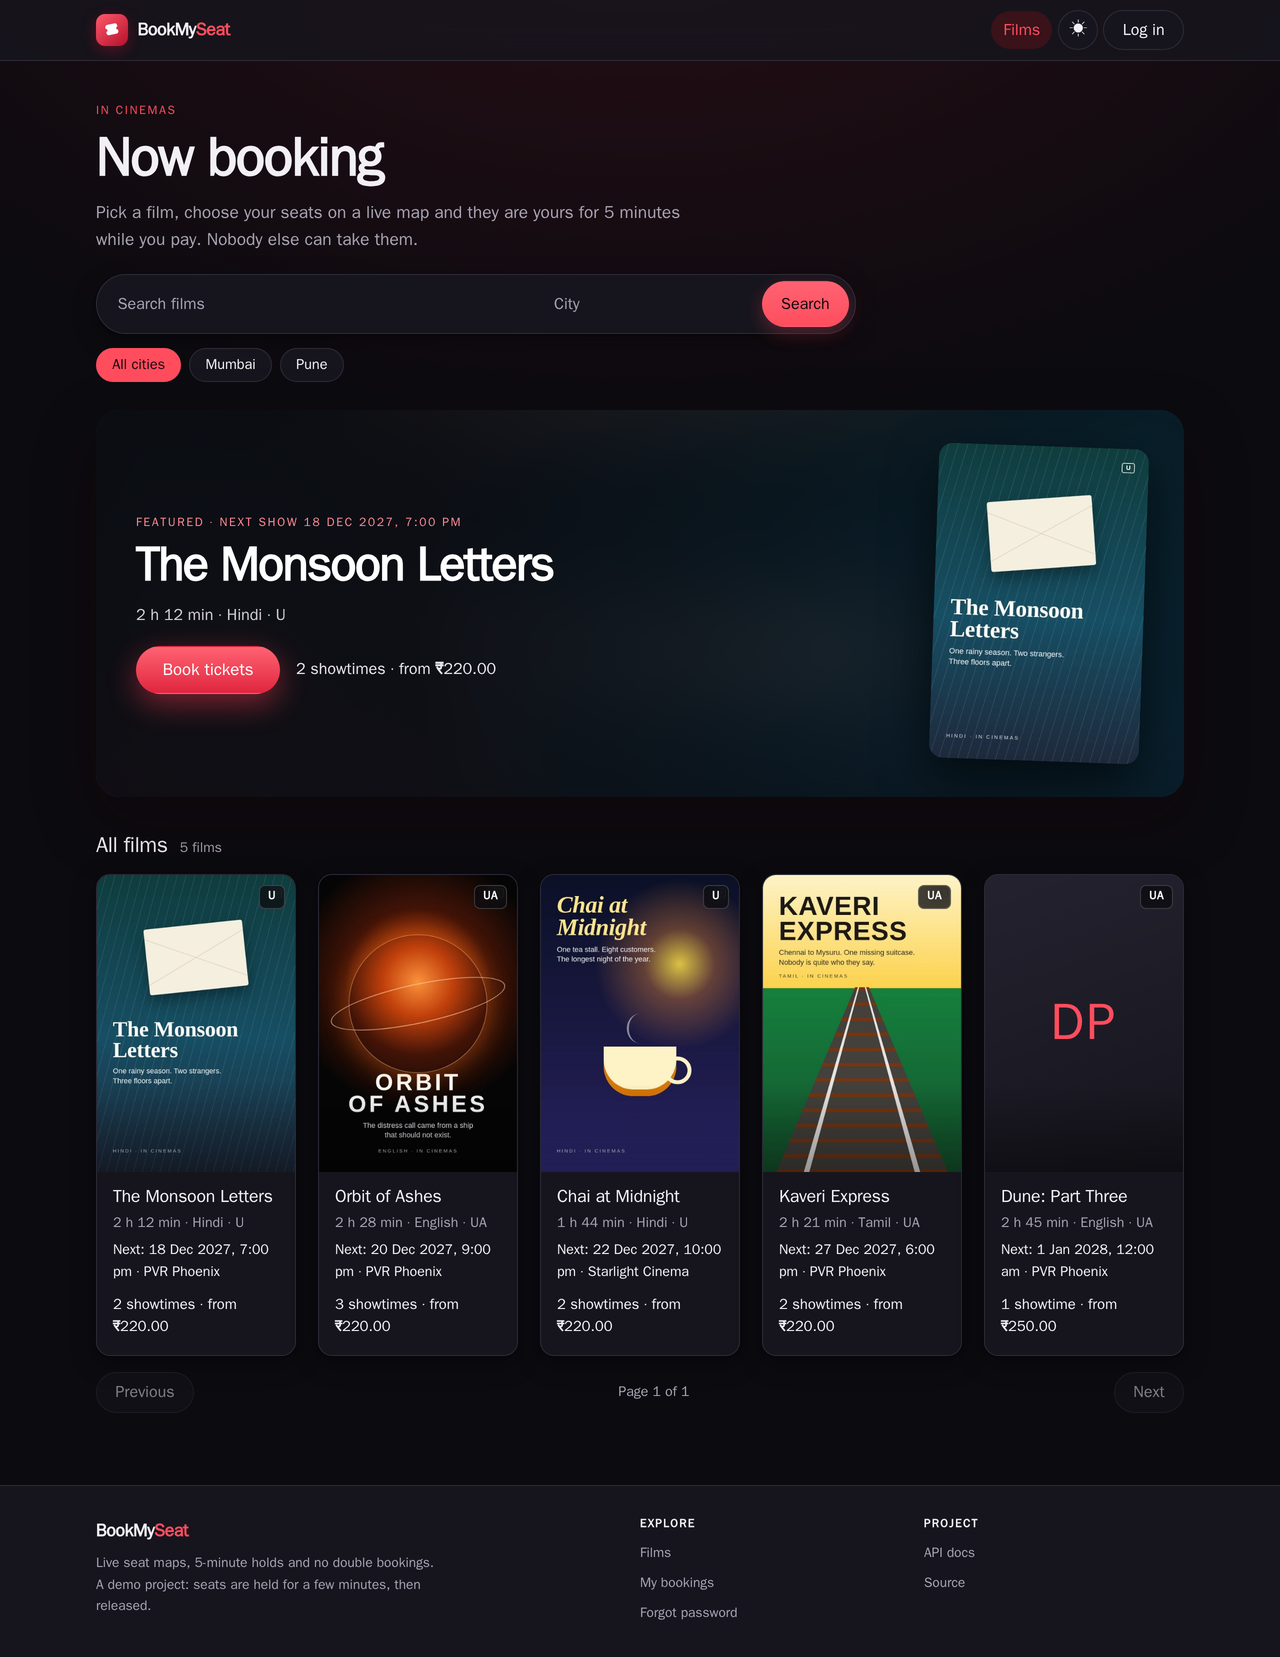
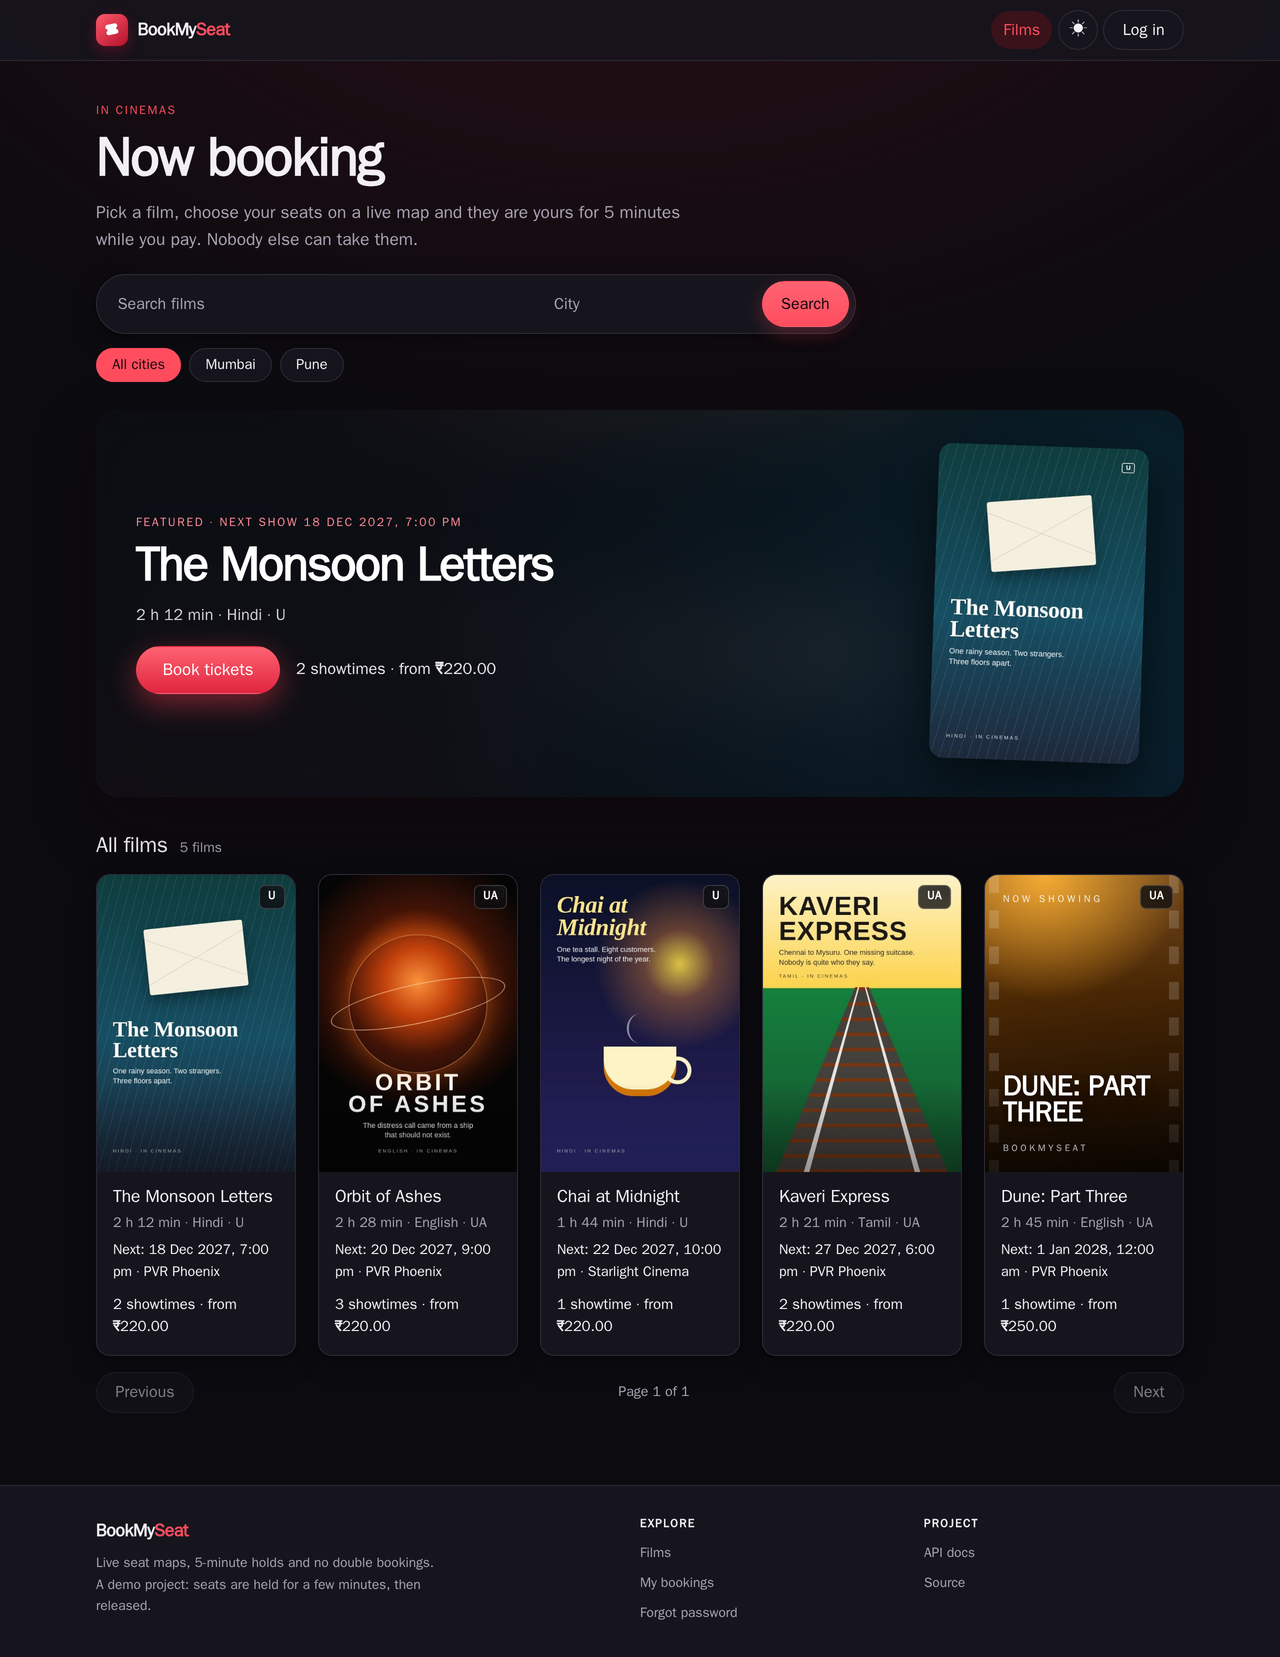
A cover for films without a poster: the title set like a poster on one of six dark gradients with film-strip edges (picked from the title, so a film keeps its colour), the initials where it is small; replaces the lone initials box (Dune on Home, and every film on the live site, where no posters are 

Changed region(s): [[0.75, 0.5232, 0.9375, 0.7079], [0.5, 0.7695, 0.5312, 0.8002]]

diff --git a/src/main/resources/static/assets/app.css b/src/main/resources/static/assets/app.css
@@ -240,16 +240,51 @@ input:focus-visible, .btn:focus-visible, .seat:focus-visible, a:focus-visible, .
 }
 .poster.cover { width: 100%; border-radius: 0; transition: transform .35s ease; }
 .film-card:hover .poster.cover { transform: scale(1.04); }
-.poster.cover.placeholder { font-size: 3.2rem; border: 0; }
 .poster { display: block; flex: none; aspect-ratio: 2 / 3; height: auto; object-fit: cover; border-radius: 8px; background: var(--seat-free); }
 .poster.thumb { width: 88px; }
 .poster.large { width: 200px; }
 .poster.small { width: 64px; }
-.poster.placeholder { display: grid; place-items: center; font-weight: 700; letter-spacing: .05em; color: var(--accent);
-	background: linear-gradient(160deg, var(--seat-free), var(--surface)); border: 1px solid var(--border); }
+/* No poster: a cover drawn from the title. Always dark with white type (in both themes), like a real poster */
+.poster.placeholder {
+	position: relative; overflow: hidden; display: grid; place-items: center; font-weight: 800; letter-spacing: .04em;
+	color: #fff; border: 0;
+	background: var(--ph-bg, radial-gradient(120% 70% at 50% 0%, #ff5a6b 0%, transparent 60%), linear-gradient(170deg, #5b0f1e, #14060a));
+}
+.poster.placeholder::before { /* film-strip holes down both sides */
+	content: ''; position: absolute; inset: 0;
+	background: repeating-linear-gradient(180deg, rgb(255 255 255 / .16) 0 6%, transparent 6% 12%) left 4px top 0 / 5% 100% no-repeat,
+		repeating-linear-gradient(180deg, rgb(255 255 255 / .16) 0 6%, transparent 6% 12%) right 4px top 0 / 5% 100% no-repeat;
+}
+.poster.placeholder::after { /* a soft light from the top, like a projector beam */
+	content: ''; position: absolute; inset: 0; background: linear-gradient(180deg, rgb(255 255 255 / .08), transparent 40%, rgb(0 0 0 / .35));
+}
+.ph-0 { --ph-bg: radial-gradient(120% 70% at 50% 0%, #ff5a6b 0%, transparent 60%), linear-gradient(170deg, #5b0f1e, #14060a); }
+.ph-1 { --ph-bg: radial-gradient(120% 70% at 30% 0%, #f5a524 0%, transparent 60%), linear-gradient(170deg, #6b3a06, #1a0d02); }
+.ph-2 { --ph-bg: radial-gradient(120% 70% at 70% 0%, #38bdf8 0%, transparent 60%), linear-gradient(170deg, #0c3b5e, #050d1a); }
+.ph-3 { --ph-bg: radial-gradient(120% 70% at 50% 0%, #a78bfa 0%, transparent 60%), linear-gradient(170deg, #3b1d72, #0d0619); }
+.ph-4 { --ph-bg: radial-gradient(120% 70% at 40% 0%, #34d399 0%, transparent 60%), linear-gradient(170deg, #0b4d3b, #03140f); }
+.ph-5 { --ph-bg: radial-gradient(120% 70% at 60% 0%, #f472b6 0%, transparent 60%), linear-gradient(170deg, #64103f, #170410); }
 .poster.thumb.placeholder { font-size: 1.4rem; }
-.poster.large.placeholder { font-size: 3rem; }
 .poster.small.placeholder { font-size: 1rem; }
+/* The large ones read like a poster: a label at the top, the title big at the bottom */
+.poster.cover.placeholder, .poster.large.placeholder {
+	display: flex; flex-direction: column; justify-content: flex-end; align-items: flex-start; place-items: initial;
+	padding: 18px 18px 16px; text-align: left;
+}
+.ph-tag, .ph-title, .ph-foot { position: relative; z-index: 1; }
+.ph-tag { position: absolute; top: 16px; left: 18px; font-size: .62rem; font-weight: 700; letter-spacing: .3em; text-transform: uppercase; opacity: .85; }
+.ph-title {
+	font-family: "Segoe UI Variable Display", "Segoe UI", system-ui, sans-serif; font-weight: 850; text-transform: uppercase;
+	letter-spacing: -.01em; line-height: .95; font-size: 1.75rem; overflow-wrap: anywhere; text-shadow: 0 4px 18px rgb(0 0 0 / .5);
+	display: -webkit-box; -webkit-box-orient: vertical; -webkit-line-clamp: 4; line-clamp: 4; overflow: hidden; /* a long title stops at 4 lines */
+}
+@media (max-width: 560px) {
+	.ph-title, .poster.large .ph-title { font-size: 1.25rem; }
+	.poster.cover.placeholder, .poster.large.placeholder { padding: 14px 14px 12px; }
+	.ph-tag { top: 12px; left: 14px; font-size: .52rem; }
+}
+.poster.large .ph-title { font-size: 1.9rem; }
+.ph-foot { margin-top: .9rem; font-size: .58rem; font-weight: 700; letter-spacing: .3em; text-transform: uppercase; opacity: .7; }
 .poster-box { margin-top: 12px; }
 .follow-row { margin-top: 12px; }
 .follow-btn::before { content: '🔔 ' / ''; } /* empty alt text: the icons are not part of the button's name */

diff --git a/src/main/resources/static/assets/app.js b/src/main/resources/static/assets/app.js
@@ -48,15 +48,24 @@ function filmFacts(film) {
 }
 
 /**
- * A film's poster, or a placeholder with its initials. Decorative (alt=""): the title is always next to it.
- * width/height reserve its place, so the page doesn't jump as posters load.
+ * A film's poster, or, without one, a cover drawn from its title: the title set like a poster on one of six
+ * cinematic gradients (picked from the title, so a film always gets the same one), or its initials when small.
+ * Decorative (alt="", aria-hidden): the title is always next to it. width/height reserve its place, so the page
+ * doesn't jump as posters load.
  */
 function posterImage(film, size) {
 	if (film.posterUrl) {
 		return `<img class="poster ${size}" src="${esc(film.posterUrl)}" alt="" width="480" height="720" loading="lazy" decoding="async">`;
 	}
+	let hash = 0;
+	for (const ch of film.title) hash = (hash * 31 + ch.codePointAt(0)) >>> 0;
+	const look = `ph-${hash % 6}`;
+	if (size === 'cover' || size === 'large') {
+		return `<span class="poster ${size} placeholder ${look}" aria-hidden="true"><span class="ph-tag">Now showing</span>`
+			+ `<span class="ph-title">${esc(film.title)}</span><span class="ph-foot">BookMySeat</span></span>`;
+	}
 	const initials = film.title.split(/\s+/).filter((w) => /^[\p{L}\p{N}]/u.test(w)).slice(0, 2).map((w) => [...w][0]).join('');
-	return `<span class="poster ${size} placeholder" aria-hidden="true">${esc(initials.toUpperCase())}</span>`;
+	return `<span class="poster ${size} placeholder ${look}" aria-hidden="true">${esc(initials.toUpperCase())}</span>`;
 }
 
 function priceLabel(show) {

diff --git a/README.md b/README.md
@@ -309,7 +309,7 @@ sequenceDiagram
 A film is what its screenings have in common: title, runtime, language, certificate (U, UA, A, S) and a synopsis. Admins keep them on the **Films** page; a show belongs to one film.
 
 <p>
-  <img src="docs/screenshots/home.png" alt="Home page in the dark theme: the search, city chips, The Monsoon Letters as the featured film, and five films as a poster grid with certificate badges, the next showtime and the cheapest seat (Dune, without a poster, shows its initials)" width="49%">
+  <img src="docs/screenshots/home.png" alt="Home page in the dark theme: the search, city chips, The Monsoon Letters as the featured film, and five films as a poster grid with certificate badges, the next showtime and the cheapest seat (Dune, a real film without a poster, gets a cover drawn from its title)" width="49%">
   <img src="docs/screenshots/film.png" alt="A film's page in the light theme, lit by its poster: synopsis, Follow this film, and three showtimes in Mumbai and Pune grouped by day, each with its cheapest seat" width="49%">
 </p>
 
@@ -331,7 +331,7 @@ flowchart LR
 | And the runtime? | The calendar event ends at the start plus the runtime, and the "How was it?" email goes out 30 minutes after that |
 | Posters? | An admin uploads a JPEG or PNG (at most 5 MB) on the Films page; whatever comes in is stored as a 480 × 720 JPEG, cropped to 2:3 around the centre (`PosterImages`, plain Java with ImageIO, unit-tested). The type is read from the file's first bytes, not its name: a text file called `poster.png` is a `415`. The size is read from the header before decoding, and the image is decoded with subsampling (every n-th pixel), so even an 8000-pixel upload takes a few MB of memory on the 512 MB instance. Re-encoding drops the metadata (camera, location) |
 | Where do they live? | In Postgres, in their own table (`film_posters`, V24), so listing films never reads an image; `films.poster_version` says there is one. `GET /api/films/{id}/poster` serves it with an ETag (`304` when unchanged) and a year of `immutable` caching, which is safe because the URL in every film carries the poster's version: a new poster is a new URL. At this size (about 40 KB each) a database is fine; object storage and a CDN would come with many more |
-| No poster? | The card and the film page show the film's initials instead. The demo's made-up films have posters drawn in HTML and CSS ([`scripts/posters/make-posters.mjs`](scripts/posters/make-posters.mjs)); "Dune: Part Three" is a real film and keeps its initials |
+| No poster? | The card and the film page draw a cover from the title instead: the title set like a poster on one of six dark gradients with film-strip edges (picked from the title, so a film keeps its colour), or the initials where it's small. The demo's made-up films have posters drawn in HTML and CSS ([`scripts/posters/make-posters.mjs`](scripts/posters/make-posters.mjs)); "Dune: Part Three" is a real film and keeps a drawn cover |
 | Existing shows? | V22 made one film per title (ignoring case) with 180 minutes, the length assumed until then, moved the ratings from the shows to the films (counted again from the reviews) and kept the newest review where someone had reviewed two screenings of one film. The shows' own rating columns stay for one release, because the previous version still reads them for a moment during the deploy |
 
 ## Reviews
@@ -558,7 +558,7 @@ A small single-page app served by the same Spring Boot server at `/` (same origi
 
 | Feature | Detail |
 |---|---|
-| Films | The home page lists the films showing with their posters (title and city filters, paginated); a film's page has its poster, synopsis, showtimes by day (keeping the city searched) and reviews; the seat map links back to the film. Posters are decorative (`alt=""`, the title is beside them), lazy-loaded, with their size reserved so nothing jumps; a film without one shows its initials |
+| Films | The home page lists the films showing with their posters (title and city filters, paginated); a film's page has its poster, synopsis, showtimes by day (keeping the city searched) and reviews; the seat map links back to the film. Posters are decorative (`alt=""`, the title is beside them), lazy-loaded, with their size reserved so nothing jumps; a film without one gets a cover drawn from its title |
 | Live seat map | Available / held / booked, refreshed every 10 s, so other people's holds appear without reloading; seat categories with their prices, and aisles |
 | Hold with countdown | Held seats are outlined as yours; the hold is released automatically when the timer ends |
 | Pick best seats | Choose how many seats (and a type) and the server picks and holds the best ones together; which seats is announced, and a show without that many together says so |
